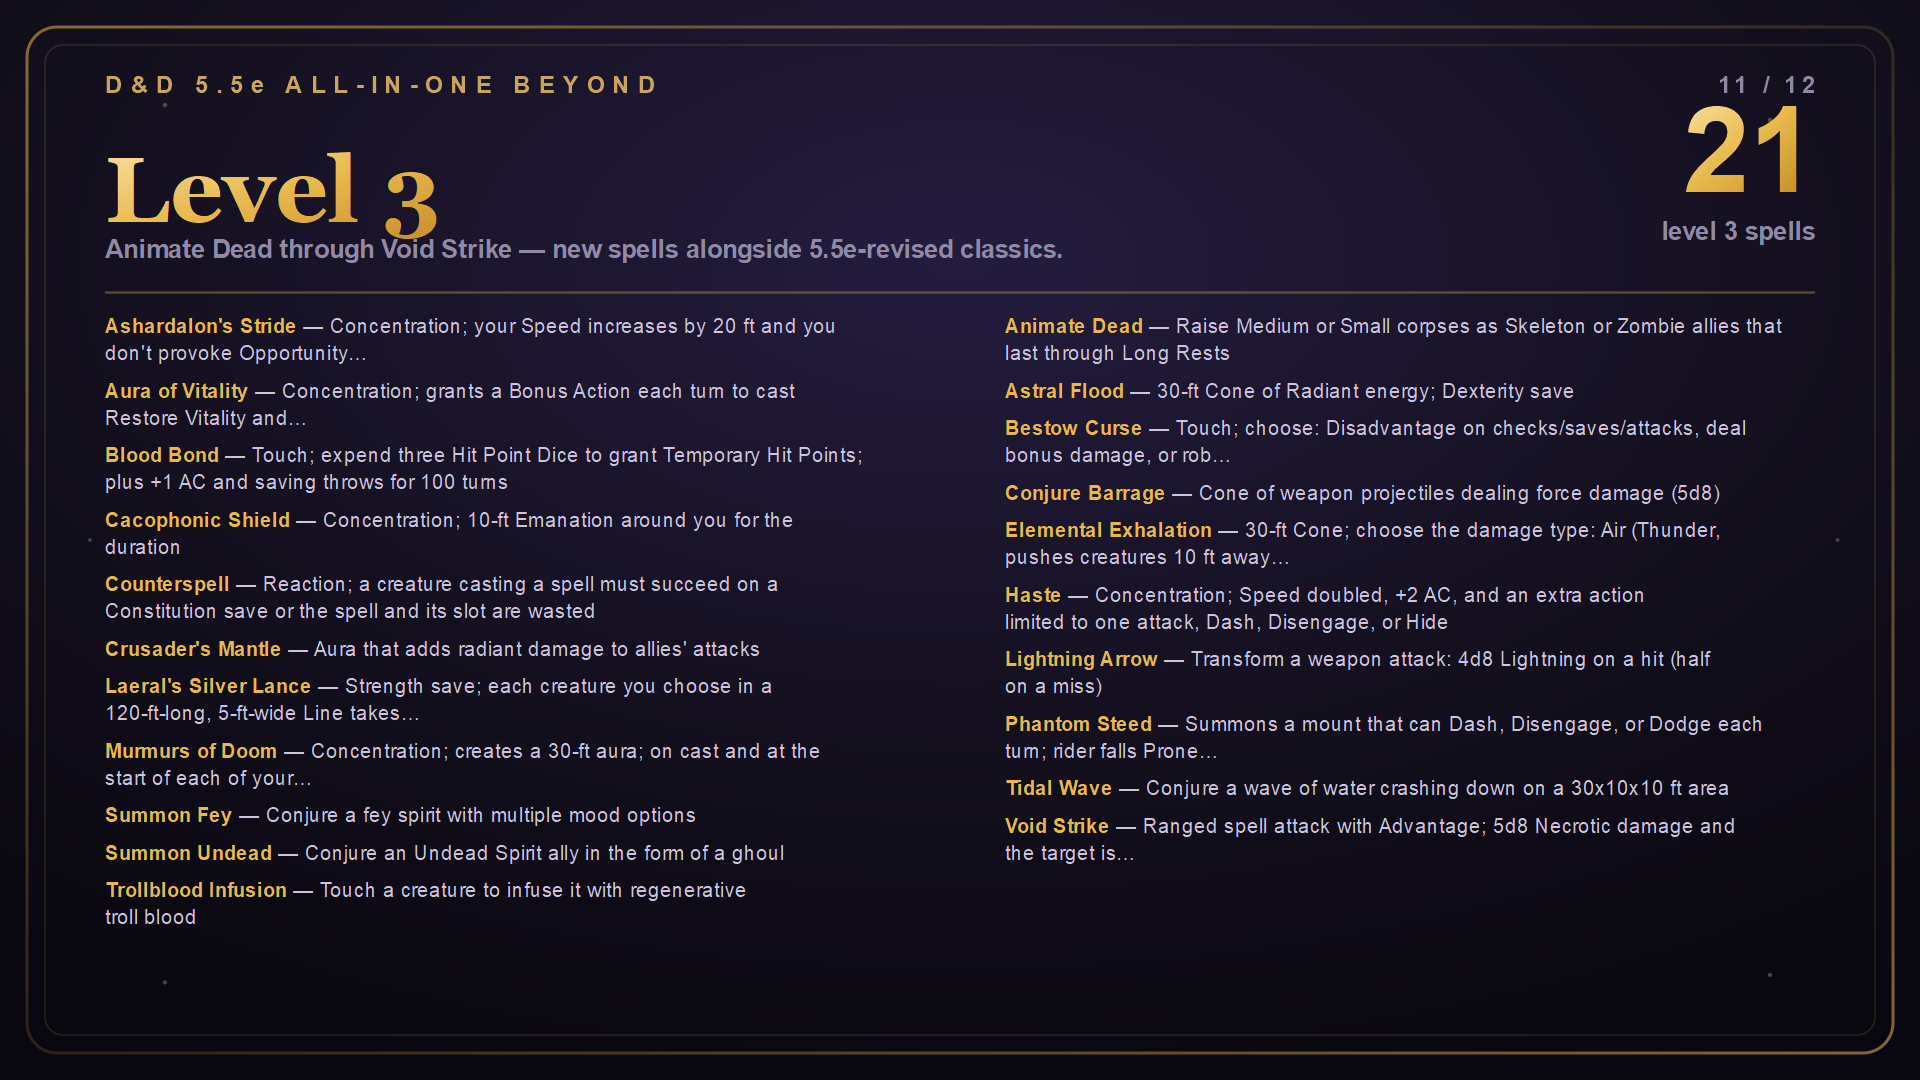
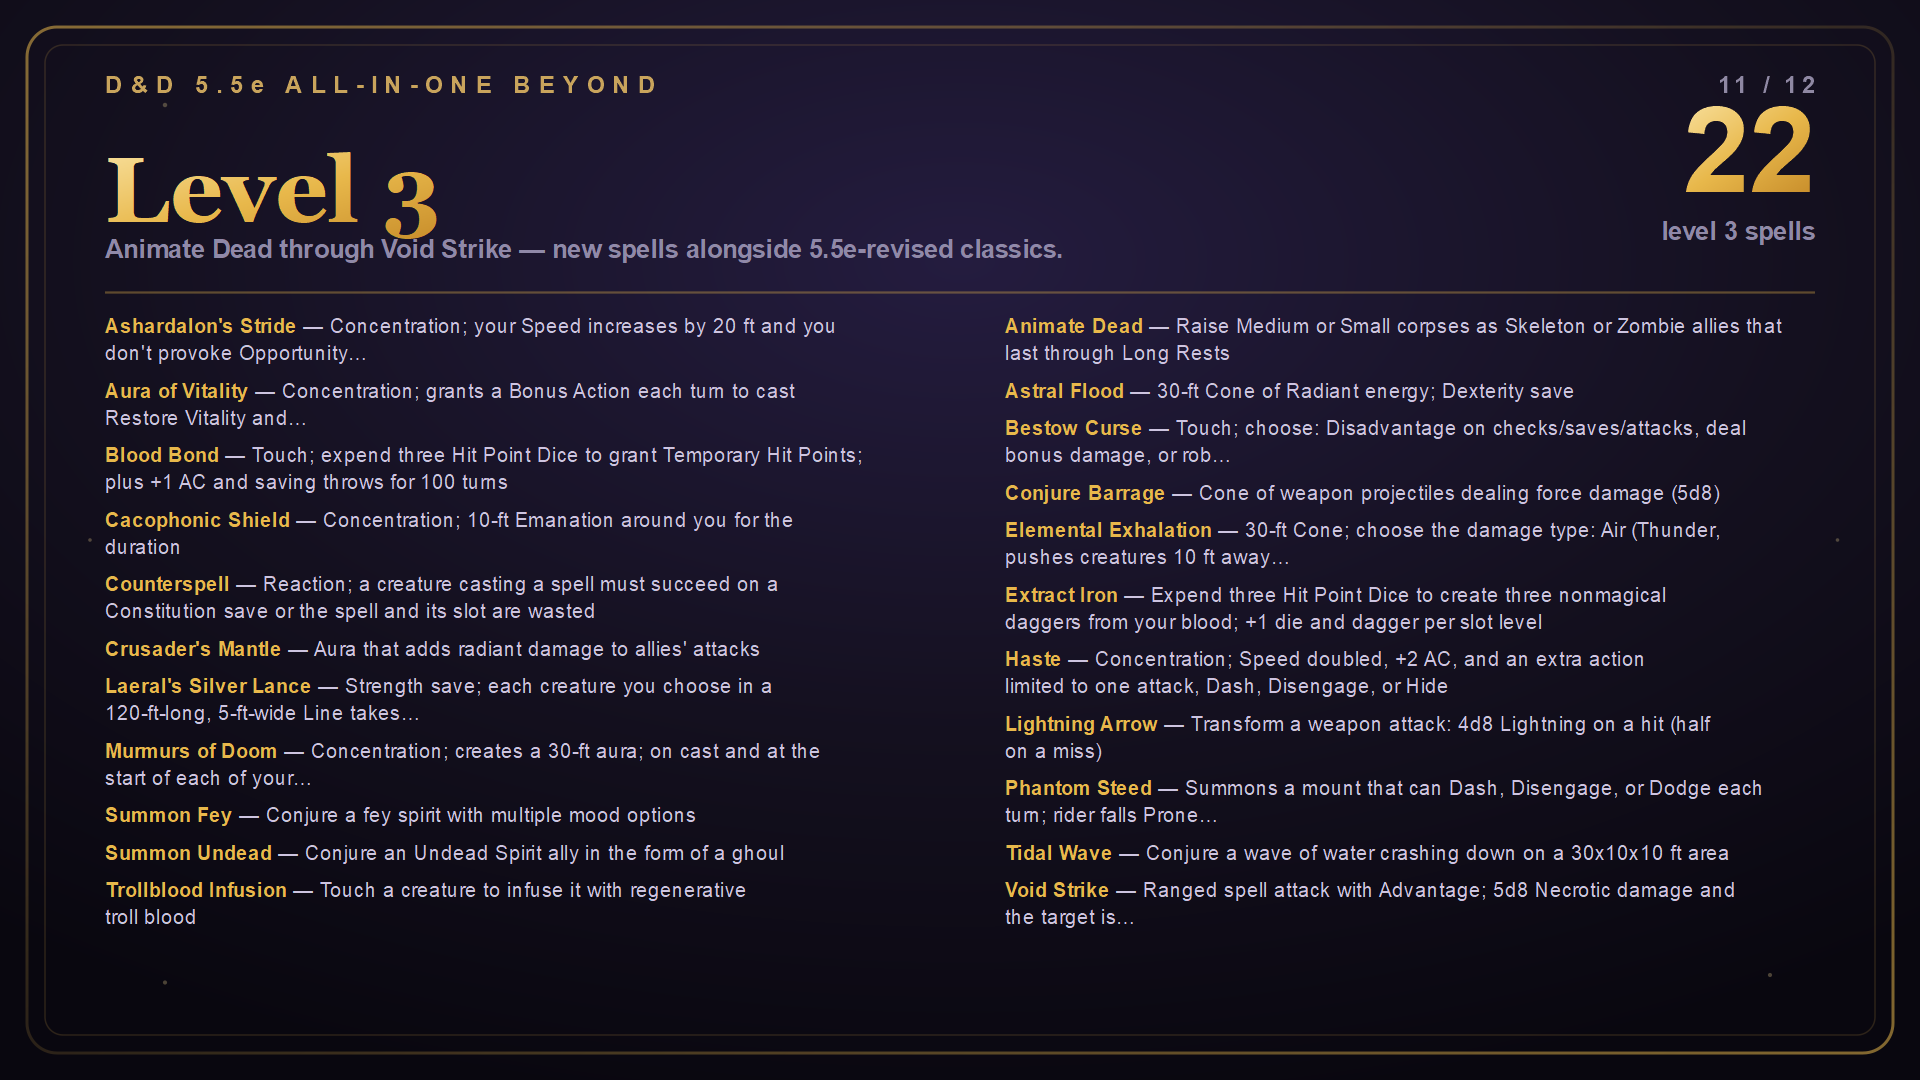
docs: list Extract Iron in the READMEs, level 3 slide and thumbnail count

Changed region(s): [[0.5, 0.5194, 0.9062, 0.8556], [0.9062, 0.0917, 0.9375, 0.1833]]

diff --git a/README_Modio.html b/README_Modio.html
@@ -91,7 +91,7 @@
 <ul>
   <li><strong>Level 1:</strong> Absorb Elements, Armor of Agathys, Ballistic Smite, Blood Rush, Bloodbane Rune, Body Warping of Gorgoroth, Boil Blood, Catapult, Chromatic Orb, Cloak of Shadow, Color Spray, Command, Consumption, Crimson Lash, Cure Wounds, Dissonant Whispers, Earth Tremor, False Life, Fog Cloud, Healing Word, Hell's Lash, Hideous Laughter, Hungering Blade, Shroud Blood, Somnolence, Spectral Slash, Spellfire Flare, Thorn Armor, Thunderous Smite, Tide of Darkness, Umbral Tendril, Vibrating Humors, Wardaway, Witch Bolt, Wrathful Smite.</li>
   <li><strong>Level 2:</strong> Aganazzar's Scorcher, Alter Self, Arcane Vigor, Barkskin, Blood Wisp, Darkbolt, Dazing Blast, Death Armor, Dragon's Breath, Elminster's Elusion, Find Steed, Fire Rune, Gust of Wind, Lesser Restoration, Mind Spike, Moonbeam, Prayer of Healing, Rime's Binding Ice, Sanguine Shield, Searing Orb, Sense Lifeblood, Shadow Blade, Snilloc's Snowball Swarm, Summon Beast, Tasha's Mind Whip, Theft of Vitae, Warding Bond, Web, Wilting Smite.</li>
-  <li><strong>Level 3:</strong> Animate Dead, Ashardalon's Stride, Astral Flood, Aura of Vitality, Bestow Curse, Blood Bond, Cacophonic Shield, Conjure Barrage, Counterspell, Crusader's Mantle, Elemental Exhalation, Haste, Laeral's Silver Lance, Lightning Arrow, Murmurs of Doom, Phantom Steed, Summon Fey, Summon Undead, Tidal Wave, Trollblood Infusion, Void Strike.</li>
+  <li><strong>Level 3:</strong> Animate Dead, Ashardalon's Stride, Astral Flood, Aura of Vitality, Bestow Curse, Blood Bond, Cacophonic Shield, Conjure Barrage, Counterspell, Crusader's Mantle, Elemental Exhalation, Extract Iron, Haste, Laeral's Silver Lance, Lightning Arrow, Murmurs of Doom, Phantom Steed, Summon Fey, Summon Undead, Tidal Wave, Trollblood Infusion, Void Strike.</li>
   <li><strong>Level 4:</strong> Arcane Eye, Charm Monster, Conjure Woodland Beings, Fire Dance, Fount of Moonlight, Murder of Crows, Spellfire Storm, Summon Aberration, Summon Elemental, Vitriolic Sphere.</li>
   <li><strong>Level 5:</strong> Awaken, Circle of Power, Cone of Cold, Conjure Elemental, Danse Macabre, Dawn, Dispel Evil and Good, Dream, Enervation, Holy Weapon, Steel Wind Strike, Summon Celestial, Summon Dragon, Synaptic Static.</li>
   <li><strong>Level 6:</strong> Circle of Death, Disintegrate, Freezing Sphere, Planar Ally.</li>

diff --git a/README.md b/README.md
@@ -101,7 +101,7 @@ Acid Splash, Blade Ward, Blood Bolt, Booming Blade, Bursting Sinew, Finger Guns,
 
 - Level 1: Absorb Elements, Armor of Agathys, Ballistic Smite, Blood Rush, Bloodbane Rune, Body Warping of Gorgoroth, Boil Blood, Catapult, Chromatic Orb, Cloak of Shadow, Color Spray, Command, Consumption, Crimson Lash, Cure Wounds, Dissonant Whispers, Earth Tremor, False Life, Fog Cloud, Healing Word, Hell's Lash, Hideous Laughter, Hungering Blade, Shroud Blood, Somnolence, Spectral Slash, Spellfire Flare, Thorn Armor, Thunderous Smite, Tide of Darkness, Umbral Tendril, Vibrating Humors, Wardaway, Witch Bolt, Wrathful Smite.
 - Level 2: Aganazzar's Scorcher, Alter Self, Arcane Vigor, Barkskin, Blood Wisp, Darkbolt, Dazing Blast, Death Armor, Dragon's Breath, Elminster's Elusion, Find Steed, Fire Rune, Gust of Wind, Lesser Restoration, Mind Spike, Moonbeam, Prayer of Healing, Rime's Binding Ice, Sanguine Shield, Searing Orb, Sense Lifeblood, Shadow Blade, Snilloc's Snowball Swarm, Summon Beast, Tasha's Mind Whip, Theft of Vitae, Warding Bond, Web, Wilting Smite.
-- Level 3: Animate Dead, Ashardalon's Stride, Astral Flood, Aura of Vitality, Bestow Curse, Blood Bond, Cacophonic Shield, Conjure Barrage, Counterspell, Crusader's Mantle, Elemental Exhalation, Haste, Laeral's Silver Lance, Lightning Arrow, Murmurs of Doom, Phantom Steed, Summon Fey, Summon Undead, Tidal Wave, Trollblood Infusion, Void Strike.
+- Level 3: Animate Dead, Ashardalon's Stride, Astral Flood, Aura of Vitality, Bestow Curse, Blood Bond, Cacophonic Shield, Conjure Barrage, Counterspell, Crusader's Mantle, Elemental Exhalation, Extract Iron, Haste, Laeral's Silver Lance, Lightning Arrow, Murmurs of Doom, Phantom Steed, Summon Fey, Summon Undead, Tidal Wave, Trollblood Infusion, Void Strike.
 - Level 4: Arcane Eye, Charm Monster, Conjure Woodland Beings, Fire Dance, Fount of Moonlight, Murder of Crows, Spellfire Storm, Summon Aberration, Summon Elemental, Vitriolic Sphere.
 - Level 5: Awaken, Circle of Power, Cone of Cold, Conjure Elemental, Danse Macabre, Dawn, Dispel Evil and Good, Dream, Enervation, Holy Weapon, Steel Wind Strike, Summon Celestial, Summon Dragon, Synaptic Static.
 - Level 6: Circle of Death, Disintegrate, Freezing Sphere, Planar Ally.
